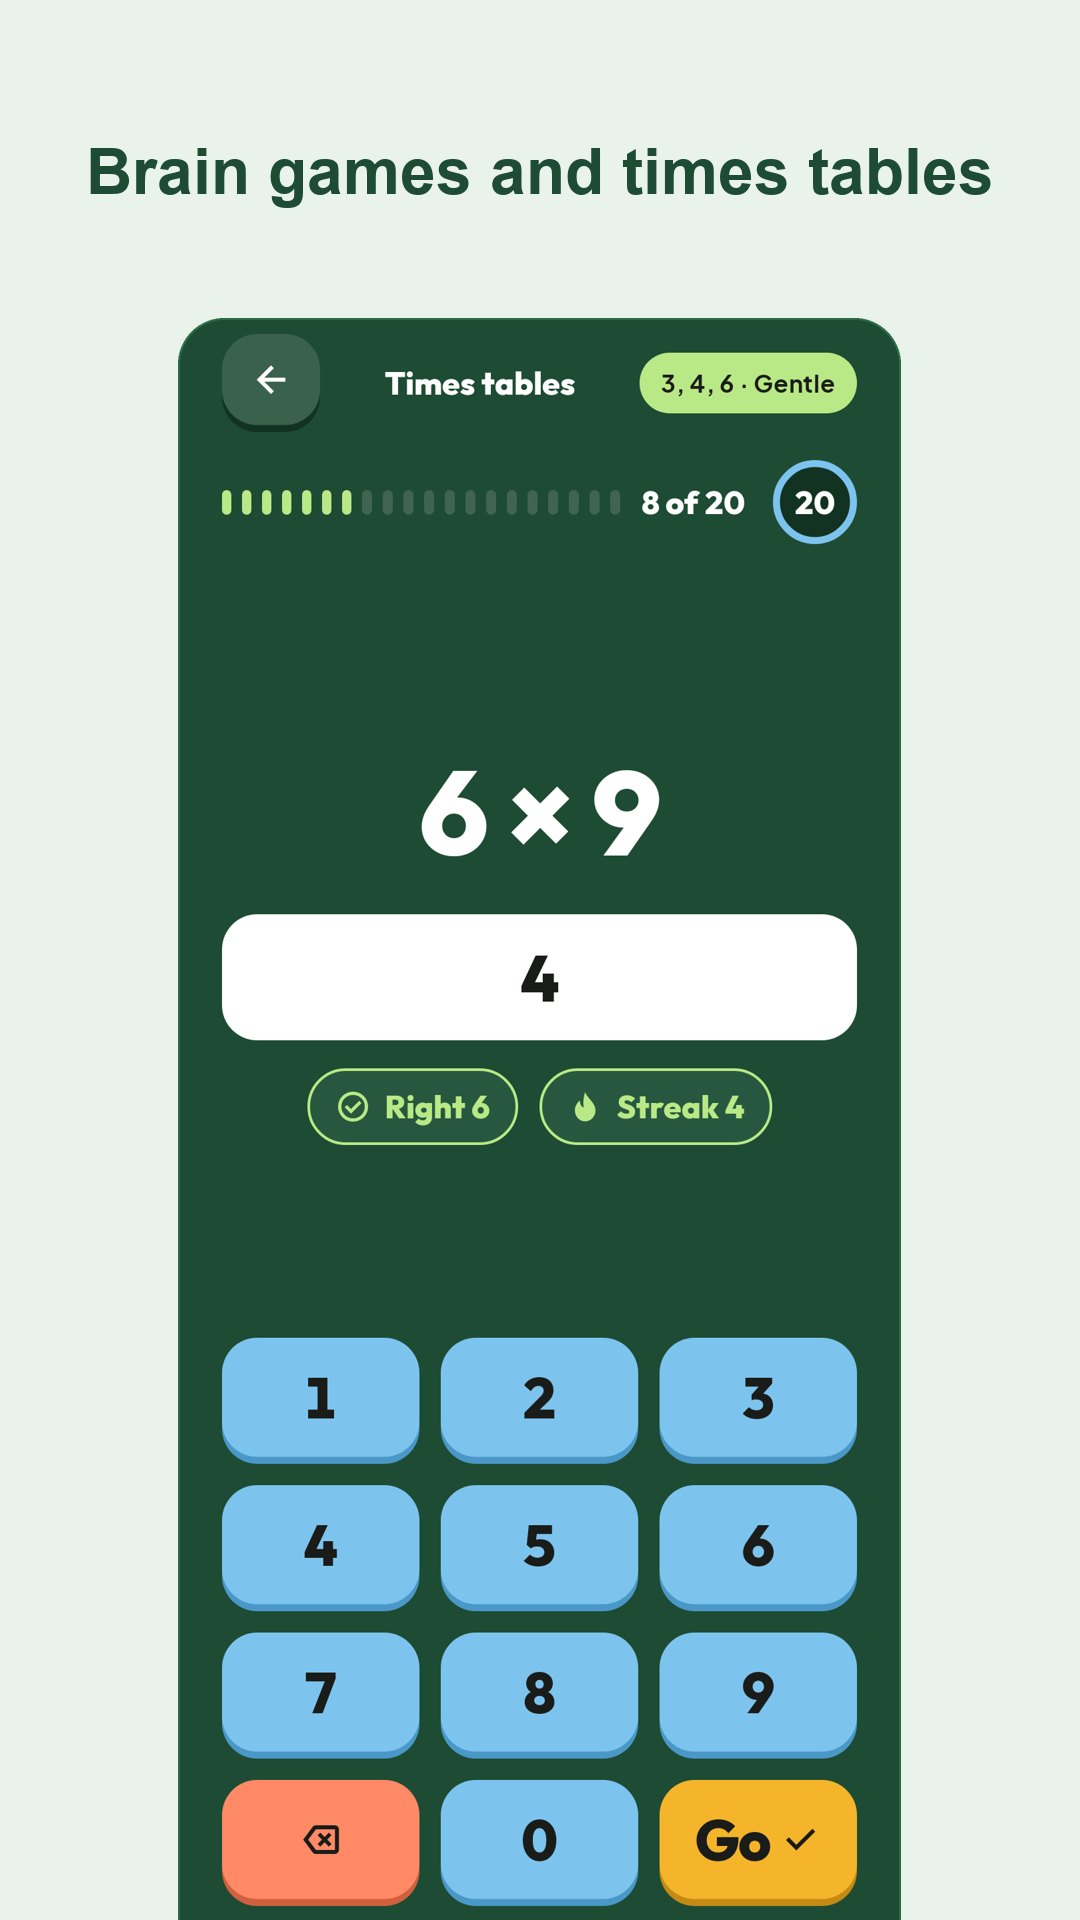
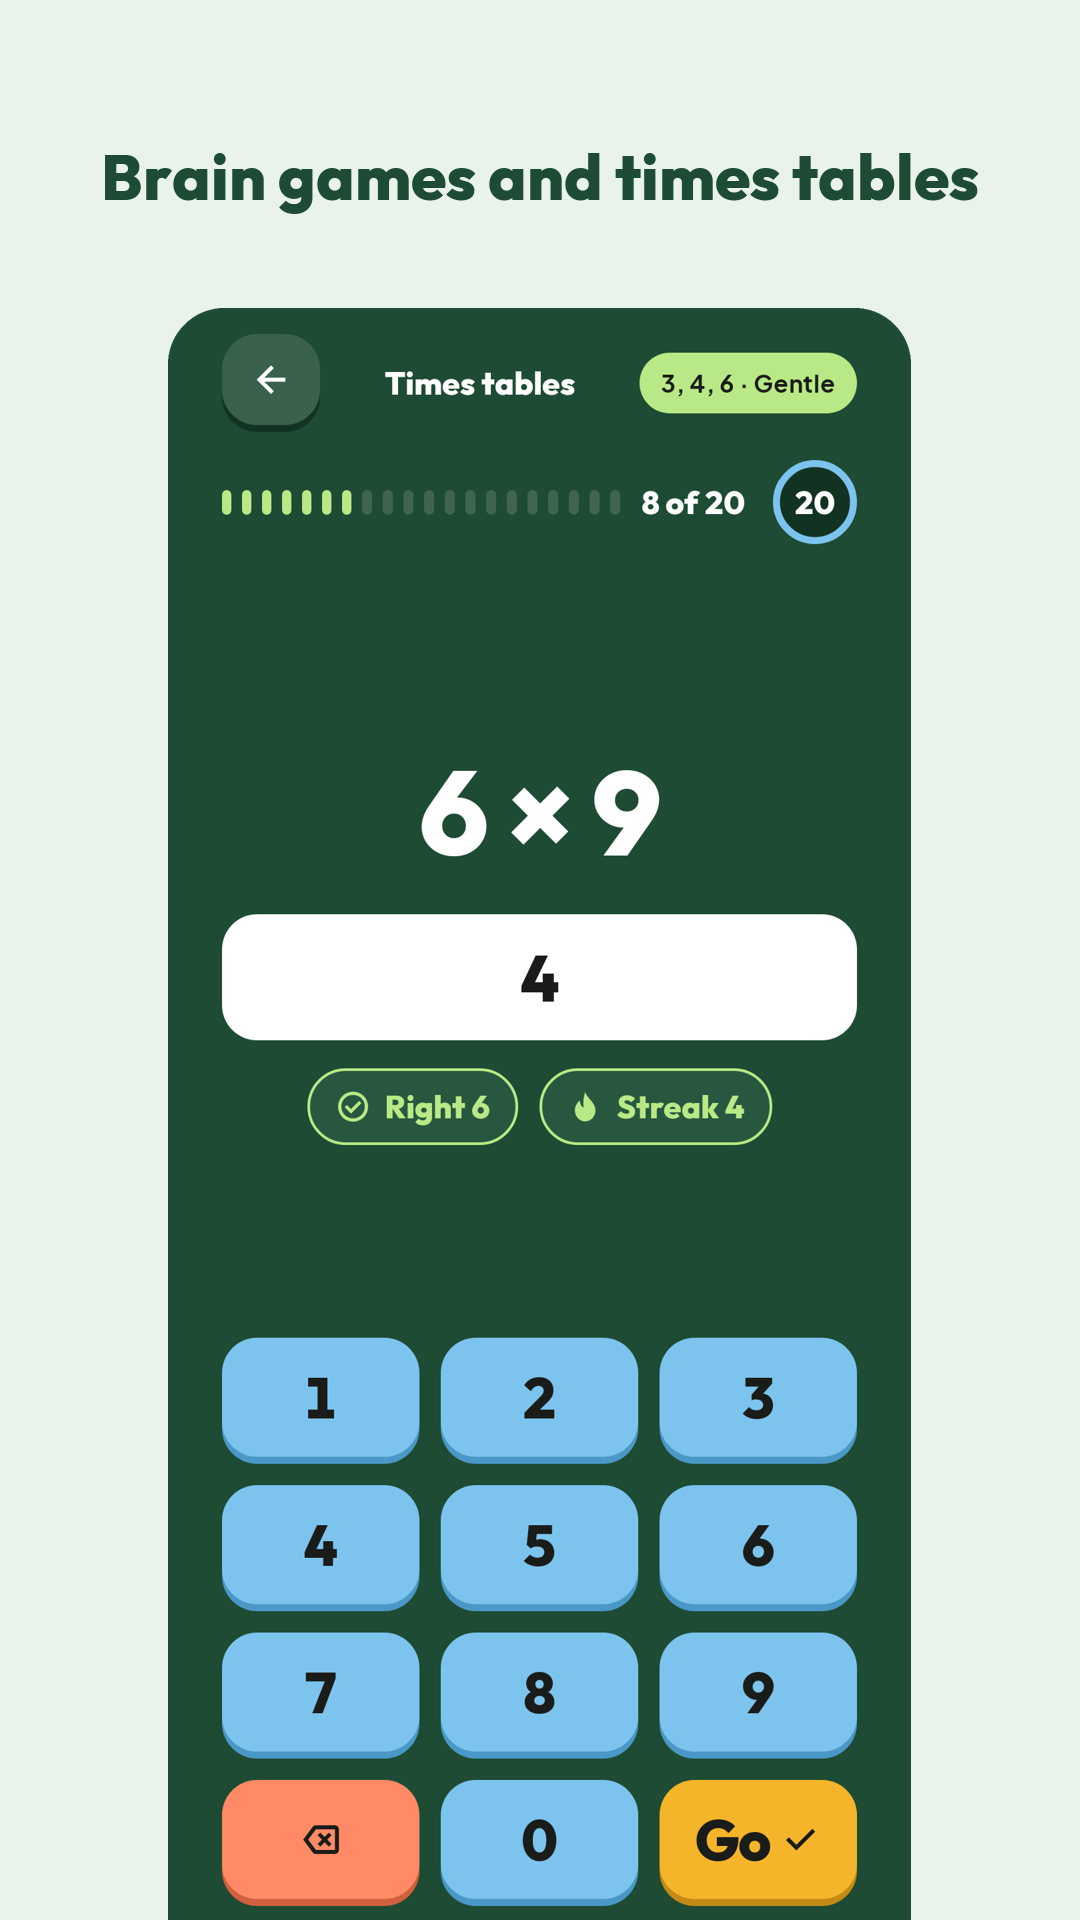
Store listing: brand fonts, bezelled frames, new feature graphic, launcher in Morning garden colours
compose.py sets captions, tier labels and the name in the app's bundled
Outfit and Plus Jakarta Sans (same output on every machine), frames each
screen in a dark green bezel, and draws a new feature graphic: the mark on
a white disc, the name, a two-line tagline, three pills and two phone cards
from listing.yaml's new 'feature' block. The launcher foreground and
background move from the 1.0 greens to Botanical on Leaf tint (M9 §7). All
18 images regenerated; --check passes.

Changed region(s): [[0.1528, 0.1562, 0.8556, 1.0], [0.0611, 0.0625, 0.9167, 0.125]]

diff --git a/tools/store/compose.py b/tools/store/compose.py
@@ -62,16 +62,27 @@ MAX_IMAGE_BYTES = 8 * 1024 * 1024
 MAX_TOTAL_BYTES = 3 * 1024 * 1024
 TEXT_LIMITS = {"title": 30, "short_description": 80, "full_description": 4000}
 
+FONTS = ROOT / "core" / "designsystem" / "src" / "main" / "res" / "font"
+# The brand fonts bundled with the app (M9 §2.2, D-M9-4) come first, so the listing is the same on every machine;
+# the system fonts are a fallback for a checkout without them.
 FONT_CANDIDATES = {
     "regular": [
+        str(FONTS / "plus_jakarta_sans_semibold.ttf"),
         "/System/Library/Fonts/Supplemental/Arial.ttf",
         "/usr/share/fonts/truetype/dejavu/DejaVuSans.ttf",
         "/usr/share/fonts/truetype/roboto/unhinted/RobotoTTF/Roboto-Regular.ttf",
     ],
     "bold": [
+        str(FONTS / "outfit_bold.ttf"),
         "/System/Library/Fonts/Supplemental/Arial Bold.ttf",
         "/usr/share/fonts/truetype/dejavu/DejaVuSans-Bold.ttf",
         "/usr/share/fonts/truetype/roboto/unhinted/RobotoTTF/Roboto-Bold.ttf",
+    ],
+    "display": [
+        str(FONTS / "outfit_extrabold.ttf"),
+        str(FONTS / "outfit_bold.ttf"),
+        "/System/Library/Fonts/Supplemental/Arial Bold.ttf",
+        "/usr/share/fonts/truetype/dejavu/DejaVuSans-Bold.ttf",
     ],
 }
 
@@ -81,7 +92,7 @@ class ComposeError(Exception):
 
 
 def font(kind: str, size: int) -> ImageFont.FreeTypeFont:
-    override = os.environ.get("SPROUT_STORE_FONT_BOLD" if kind == "bold" else "SPROUT_STORE_FONT")
+    override = os.environ.get({"bold": "SPROUT_STORE_FONT_BOLD", "display": "SPROUT_STORE_FONT_DISPLAY"}.get(kind, "SPROUT_STORE_FONT"))
     for path in ([override] if override else []) + FONT_CANDIDATES[kind]:
         if path and Path(path).is_file():
             return ImageFont.truetype(path, size)
@@ -214,16 +225,35 @@ def icon() -> Image.Image:
     return image
 
 
-def feature_graphic(colours: Dict[str, Tuple[int, int, int]]) -> Image.Image:
-    background, _ = launcher_layers()
-    image = Image.new("RGB", FEATURE, background)
-    mark = draw_foreground(360, (0, 0), (18, 18, 72))
-    image.paste(mark, (60, 70), mark)
+def feature_graphic(colours: Dict[str, Tuple[int, int, int]], listing: dict) -> Image.Image:
+    """Leaf tint canvas, the mark on a white disc, "Sprout" in the display face, the tagline, pills, and two phone
+    cards (the screens named in listing.yaml `feature`) cut by the bottom edge. Text keeps left of TEXT_RIGHT."""
+    text_right = 620
+    image = Image.new("RGB", FEATURE, colours["brand_light"])
     draw = ImageDraw.Draw(image)
-    draw.text((450, 150), "Sprout", font=font("bold", 120), fill=colours["brand_dark"])
-    tagline = font("regular", 40)
-    draw.text((456, 300), "Chores, pocket money and", font=tagline, fill=colours["caption_light"])
-    draw.text((456, 350), "screen time for families", font=tagline, fill=colours["caption_light"])
+    draw.ellipse((48, 52, 48 + 140, 52 + 140), fill=(255, 255, 255))
+    mark = draw_foreground(110, (0, 0), (18, 18, 72))
+    image.paste(mark, (63, 67), mark)
+    draw.text((214, 40), "Sprout", font=font("display", 104), fill=colours["brand_dark"])
+    tagline = font("regular", 27)
+    for index, line in enumerate(listing["feature"]["tagline"]):
+        if tagline.getlength(line) > text_right - 60:
+            raise ComposeError(f"feature tagline line too long: {line!r}")
+        draw.text((60, 232 + index * 38), line, font=tagline, fill=colours["caption_light"])
+    pill = font("bold", 22)
+    x = 60
+    for text in listing["feature"]["pills"]:
+        width = int(pill.getlength(text)) + 40
+        if x + width > text_right:
+            raise ComposeError("feature pills do not fit; use fewer or shorter pills")
+        draw.rounded_rectangle((x, 350, x + width, 350 + 48), 24, fill=(255, 255, 255), outline=colours["brand"], width=2)
+        draw.text((x + 20, 350 + 10), text, font=pill, fill=colours["brand_dark"])
+        x += width + 12
+    left = 664
+    for path in listing["feature"]["screens"]:
+        screen = fit_screen(golden(path))
+        card(image, screen, (left, 60, left + 160, FEATURE[1]), 22, colours["brand"], bezel=8)
+        left += 184
     return image
 
 
@@ -263,11 +293,11 @@ def wrap(text: str, typeface: ImageFont.FreeTypeFont, width: int) -> List[str]:
 
 def caption(draw: ImageDraw.ImageDraw, text: str, box: Tuple[int, int, int, int], size: int, colour) -> None:
     left, top, right, bottom = box
-    typeface = font("bold", size)
+    typeface = font("display", size)
     lines = wrap(text, typeface, right - left)
     while len(lines) > 2 and size > 24:
         size -= 4
-        typeface = font("bold", size)
+        typeface = font("display", size)
         lines = wrap(text, typeface, right - left)
     if len(lines) > 2:
         raise ComposeError(f"caption too long for two lines: {text!r}")
@@ -279,9 +309,9 @@ def caption(draw: ImageDraw.ImageDraw, text: str, box: Tuple[int, int, int, int]
         y += line_height
 
 
-def card(image: Image.Image, screen: Image.Image, box: Tuple[int, int, int, int], radius: int, outline, closed: bool = False) -> None:
+def card(image: Image.Image, screen: Image.Image, box: Tuple[int, int, int, int], radius: int, outline, closed: bool = False, bezel: int = 2) -> None:
     """Scales [screen] to the box width, crops it to the box height and pastes it with rounded top corners (all four
-    when [closed]; otherwise it runs off the bottom edge)."""
+    when [closed]; otherwise it runs off the bottom edge), inside a [bezel] px border in [outline] (a phone's bezel)."""
     tail = 0 if closed else radius * 4
     left, top, right, bottom = box
     width, height = right - left, bottom - top
@@ -298,13 +328,13 @@ def card(image: Image.Image, screen: Image.Image, box: Tuple[int, int, int, int]
     mask = Image.new("L", (width * 2, height * 2), 0)
     ImageDraw.Draw(mask).rounded_rectangle((0, 0, width * 2 - 1, height * 2 - 1 + tail), radius * 2, fill=255)
     mask = mask.resize((width, height), Image.LANCZOS)
-    extra = 4 if closed else 2
-    border = Image.new("RGB", (width + 4, height + extra), outline)
-    border_mask = Image.new("L", ((width + 4) * 2, (height + extra) * 2), 0)
+    extra = 2 * bezel if closed else bezel
+    border = Image.new("RGB", (width + 2 * bezel, height + extra), outline)
+    border_mask = Image.new("L", ((width + 2 * bezel) * 2, (height + extra) * 2), 0)
     ImageDraw.Draw(border_mask).rounded_rectangle(
-        (0, 0, (width + 4) * 2 - 1, (height + extra) * 2 - 1 + tail), (radius + 2) * 2, fill=255
+        (0, 0, (width + 2 * bezel) * 2 - 1, (height + extra) * 2 - 1 + tail), (radius + bezel) * 2, fill=255
     )
-    image.paste(border, (left - 2, top - 2), border_mask.resize((width + 4, height + extra), Image.LANCZOS))
+    image.paste(border, (left - bezel, top - bezel), border_mask.resize((width + 2 * bezel, height + extra), Image.LANCZOS))
     image.paste(panel, (left, top), mask)
 
 
@@ -313,12 +343,12 @@ def phone_image(entry: dict, theme: str, colours) -> Image.Image:
     image = Image.new("RGB", PHONE, colours["surface_dark"] if dark else colours["brand_light"])
     draw = ImageDraw.Draw(image)
     caption(draw, entry["caption"], (70, 60, PHONE[0] - 70, 290), 64, colours["caption_dark"] if dark else colours["caption_light"])
-    outline = (60, 66, 58) if dark else colours["brand"]
+    outline = (59, 70, 62) if dark else colours["brand_dark"]
     if "tiers" in entry:
         tiers = entry["tiers"]
         gap, margin = 24, 48
         width = (PHONE[0] - 2 * margin - gap * (len(tiers) - 1)) // len(tiers)
-        label = font("bold", 34)
+        label = font("display", 36)
         # Each tier's whole screen at the column width (D-M9-20), top-aligned under its label; when the screens are
         # shorter than the space under the labels, the cards close at the screen's foot.
         screens = [fit_screen(golden(tier["image"])) for tier in tiers]
@@ -329,14 +359,14 @@ def phone_image(entry: dict, theme: str, colours) -> Image.Image:
             left = margin + index * (width + gap)
             text = tier["label"]
             draw.text((left + (width - label.getlength(text)) / 2, 330), text, font=label, fill=colours["caption_light"])
-            card(image, screen, (left, 400, left + width, 400 + card_height), 28, outline, closed=closed)
+            card(image, screen, (left, 400, left + width, 400 + card_height), 28, outline, closed=closed, bezel=6)
         return image
     source = fit_screen(golden(entry["dark"] if dark else entry["light"]))
     height = PHONE[1] - 320
     # The whole screen, scaled down to the card's height (aspect kept, centred), so the bottom bar shows (D-M9-20).
     width = min(source.size[0], round(source.size[0] * height / source.size[1]))
     left = (PHONE[0] - width) // 2
-    card(image, source, (left, 320, left + width, PHONE[1]), 44, outline)
+    card(image, source, (left, 320, left + width, PHONE[1]), 44, outline, bezel=12)
     return image
 
 
@@ -353,7 +383,7 @@ def tablet_image(entry: dict, colours) -> Image.Image:
     screen = golden(entry["light"])  # 1280 x 800 dp at density 1: pasted 1:1, not scaled
     width, height = screen.size[0], min(screen.size[1], TABLET[1] - 190)
     left = (TABLET[0] - width) // 2
-    card(image, screen, (left, 190, left + width, 190 + height), 28, colours["brand"], closed=True)
+    card(image, screen, (left, 190, left + width, 190 + height), 28, colours["brand_dark"], closed=True, bezel=10)
     return image
 
 
@@ -386,7 +416,7 @@ def build(listing: dict) -> Dict[str, Tuple[bytes, Tuple[int, int]]]:
     colours = {key: hex_colour(value) for key, value in listing["colours"].items()}
     files: Dict[str, Tuple[bytes, Tuple[int, int]]] = {}
     files["images/icon.png"] = (png_bytes(icon()), ICON)
-    files["images/feature_graphic.png"] = (png_bytes(feature_graphic(colours)), FEATURE)
+    files["images/feature_graphic.png"] = (png_bytes(feature_graphic(colours, listing)), FEATURE)
     if not 2 <= len(listing["phone"]) <= 8 or not 1 <= len(listing["tablet"]) <= 8:
         raise ComposeError("Play takes 2 to 8 phone screenshots and up to 8 tablet screenshots")
     for entry in listing["phone"]:

diff --git a/play/listing/README.md b/play/listing/README.md
@@ -10,7 +10,7 @@ python3 tools/store/compose.py           # writes this folder; prints each file'
 python3 tools/store/compose.py --check   # compares with what is committed
 ```
 
-Edit the text and the choice of screens in `listing.yaml`, never the files here. The screenshots are composed from the committed screenshot-test goldens (the demo household Mia, Leo and Zoe; no real data), so re-run after re-recording goldens: CI does not check this folder (the captions depend on the fonts), so goldens re-recorded without a re-run leave the listing stale without any failure. The committed images were made on macOS with Arial; another machine falls back to DejaVu Sans or Roboto (or `SPROUT_STORE_FONT` / `SPROUT_STORE_FONT_BOLD`), which changes the captions slightly.
+Edit the text and the choice of screens in `listing.yaml`, never the files here. The screenshots are composed from the committed screenshot-test goldens (the demo household Mia, Leo and Zoe; no real data), so re-run after re-recording goldens: CI does not check this folder (the captions depend on the fonts), so goldens re-recorded without a re-run leave the listing stale without any failure. Captions, labels and the name are set in the app's own fonts (Outfit for headings and the name, Plus Jakarta Sans for the tagline), read from `core/designsystem/src/main/res/font`, so the images are the same on every machine with the same Pillow; `SPROUT_STORE_FONT`, `SPROUT_STORE_FONT_BOLD` and `SPROUT_STORE_FONT_DISPLAY` override them.
 
 ## Upload order
 
@@ -21,7 +21,7 @@ Play Console → Grow users → Store presence → Main store listing (English (
 3. **Full description:** `en-GB/full_description.txt` (about 2,990 of 4,000).
 4. **App icon:** `en-GB/images/icon.png` (512 × 512, 24-bit PNG, no alpha; Play adds the rounded mask).
 5. **Feature graphic:** `en-GB/images/feature_graphic.png` (1024 × 500).
-6. **Phone screenshots:** `en-GB/images/phone/light/01…08` in file-name order (1080 × 1920, 9:16, which also meets the 1080 px minimum for promotion in Play's recommendations). Each shows the golden's first screen scaled down to fit its card, so the app's bottom bar is in the picture (D-M9-20). The `phone/dark` set (the four screens that have dark goldens: dashboard, chat, time bank, household data) is an alternative for a later listing experiment, not a second upload.
+6. **Phone screenshots:** `en-GB/images/phone/light/01…08` in file-name order (1080 × 1920, 9:16, which also meets the 1080 px minimum for promotion in Play's recommendations). Each shows the golden's first screen scaled down to fit its card, inside a dark green bezel, so the app's bottom bar is in the picture (D-M9-20). The `phone/dark` set (the four screens that have dark goldens: dashboard, chat, time bank, household data) is an alternative for a later listing experiment, not a second upload.
 7. **7-inch tablet screenshots** and **10-inch tablet screenshots:** the same `en-GB/images/tablet/light/01…04` in both slots (1920 × 1080, 16:9; the tablet goldens are 1280 × 800 and are placed 1:1, not scaled).
 8. Category **Parenting**; contact e-mail the privacy contact (`docs/privacy.properties`); privacy policy URL `https://<host>/privacy`.
 
@@ -31,21 +31,21 @@ Play Console → Grow users → Store presence → Main store listing (English (
 
 | File | Size | What it shows |
 |---|---|---|
-| `images/icon.png` | 11 KB | The launcher's two-leaf sprout, drawn from `ic_launcher_foreground.xml` on `@color/ic_launcher_background` |
-| `images/feature_graphic.png` | 31 KB | The sprout mark, "Sprout", and the tagline |
-| `images/phone/light/01-parent-dashboard.png` | 205 KB | Parent dashboard with the bottom bar (the shell golden) |
-| `images/phone/light/02-grows-with-your-child.png` | 236 KB | The kid wallet in the three tiers side by side, each with its bottom bar |
-| `images/phone/light/03-chores.png` | 149 KB | A Sprout-tier kid's chores for today |
-| `images/phone/light/04-shop.png` | 227 KB | A Seedling's shop |
-| `images/phone/light/05-chat.png` | 123 KB | A parent's chat thread |
-| `images/phone/light/06-games.png` | 138 KB | A Sprout-tier Times tables question on the Playground field |
-| `images/phone/light/07-time-bank.png` | 160 KB | The time bank running |
-| `images/phone/light/08-your-data.png` | 283 KB | Settings → Household data (retention, export, delete) |
-| `images/phone/dark/01, 05, 07, 08` | 218, 126, 162, 310 KB | The same four screens in the dark theme |
-| `images/tablet/light/01-parent-dashboard.png` | 97 KB | Dashboard, two columns, with the navigation rail |
-| `images/tablet/light/02-chores.png` | 106 KB | Chore list and editor side by side |
-| `images/tablet/light/03-chat.png` | 65 KB | Chat list and thread side by side |
-| `images/tablet/light/04-kid-wallet.png` | 86 KB | A Sprout kid's wallet on a tablet, with the navigation rail |
+| `images/icon.png` | 12 KB | The launcher's two-leaf sprout (Botanical on Leaf tint since 1.1), drawn from `ic_launcher_foreground.xml` on `@color/ic_launcher_background` |
+| `images/feature_graphic.png` | 79 KB | The mark on a white disc, "Sprout" in Outfit, the two-line tagline, three pills, and two phone cards (the Sprout wallet and a Times tables question) cut by the bottom edge; the screens and text come from `listing.yaml` `feature` |
+| `images/phone/light/01-parent-dashboard.png` | 202 KB | Parent dashboard with the bottom bar (the shell golden) |
+| `images/phone/light/02-grows-with-your-child.png` | 234 KB | The kid wallet in the three tiers side by side, each with its bottom bar |
+| `images/phone/light/03-chores.png` | 145 KB | A Sprout-tier kid's chores for today |
+| `images/phone/light/04-shop.png` | 225 KB | A Seedling's shop |
+| `images/phone/light/05-chat.png` | 121 KB | A parent's chat thread |
+| `images/phone/light/06-games.png` | 135 KB | A Sprout-tier Times tables question on the Playground field |
+| `images/phone/light/07-time-bank.png` | 156 KB | The time bank running |
+| `images/phone/light/08-your-data.png` | 280 KB | Settings → Household data (retention, export, delete) |
+| `images/phone/dark/01, 05, 07, 08` | 216, 124, 158, 307 KB | The same four screens in the dark theme |
+| `images/tablet/light/01-parent-dashboard.png` | 96 KB | Dashboard, two columns, with the navigation rail |
+| `images/tablet/light/02-chores.png` | 105 KB | Chore list and editor side by side |
+| `images/tablet/light/03-chat.png` | 64 KB | Chat list and thread side by side |
+| `images/tablet/light/04-kid-wallet.png` | 85 KB | A Sprout kid's wallet on a tablet, with the navigation rail |
 | **Total** | **2.7 MB** | 18 images; budget 3 MB, Play's limit 8 MB each |
 
 `compose.py` fails when the launcher foreground uses anything but plain filled paths (groups, fill types, alpha or strokes are not drawn), `--check` also when a committed PNG is not produced by `listing.yaml`, and either fails when a text is over Play's limit, an image has alpha, is over 8 MB or outside 320 to 3,840 px or 2:1, there are more than 8 screenshots of a type, or the images together pass 3 MB.
